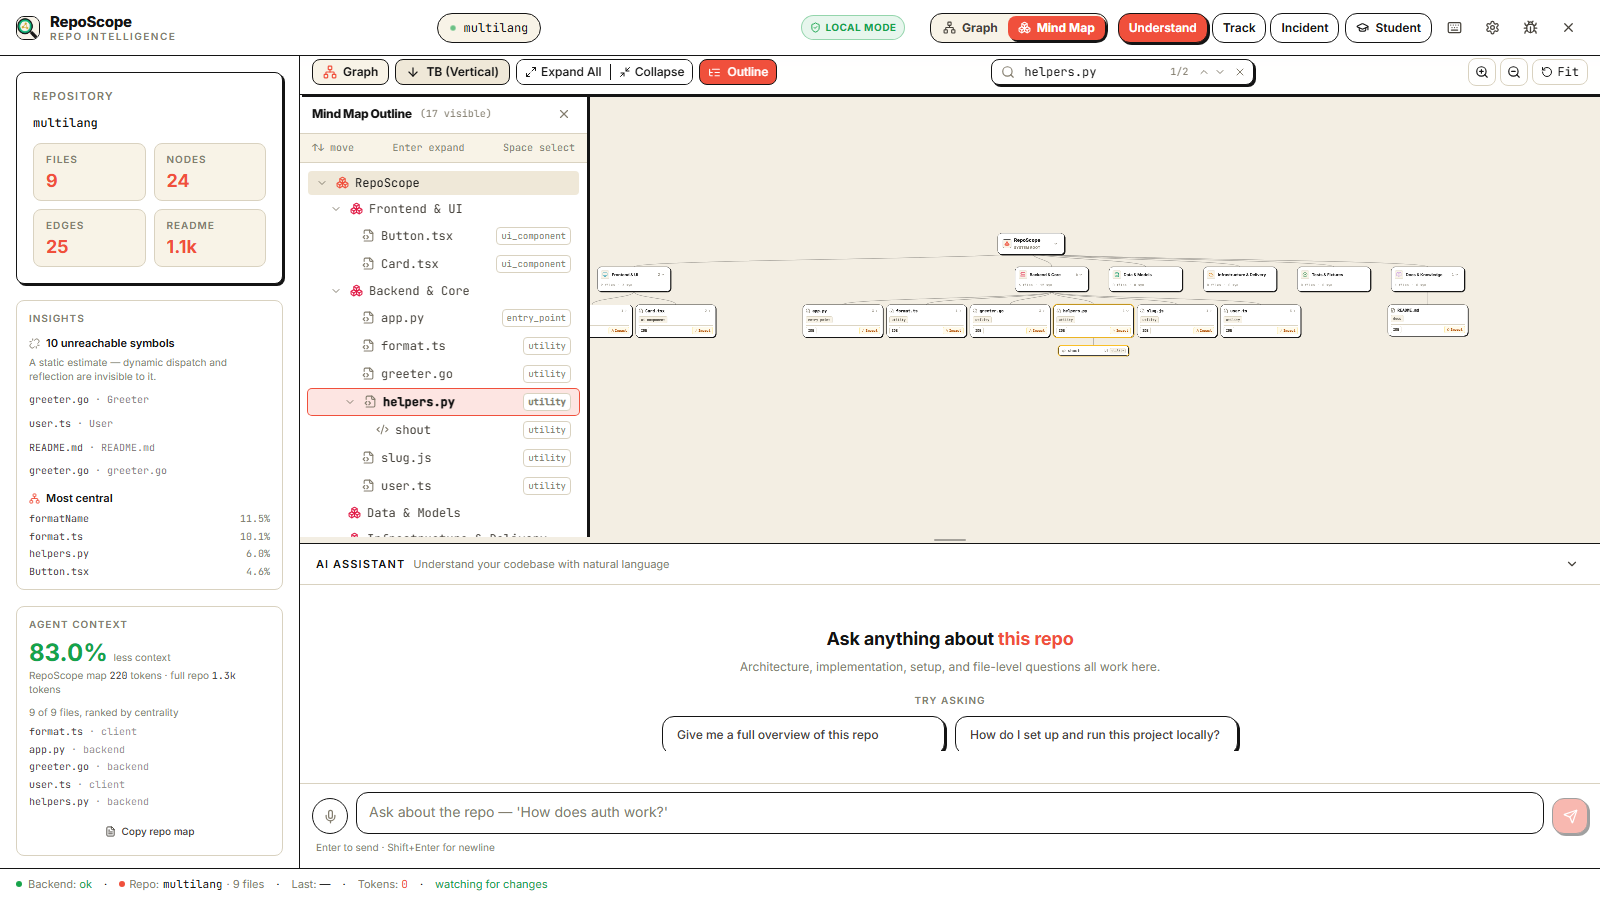
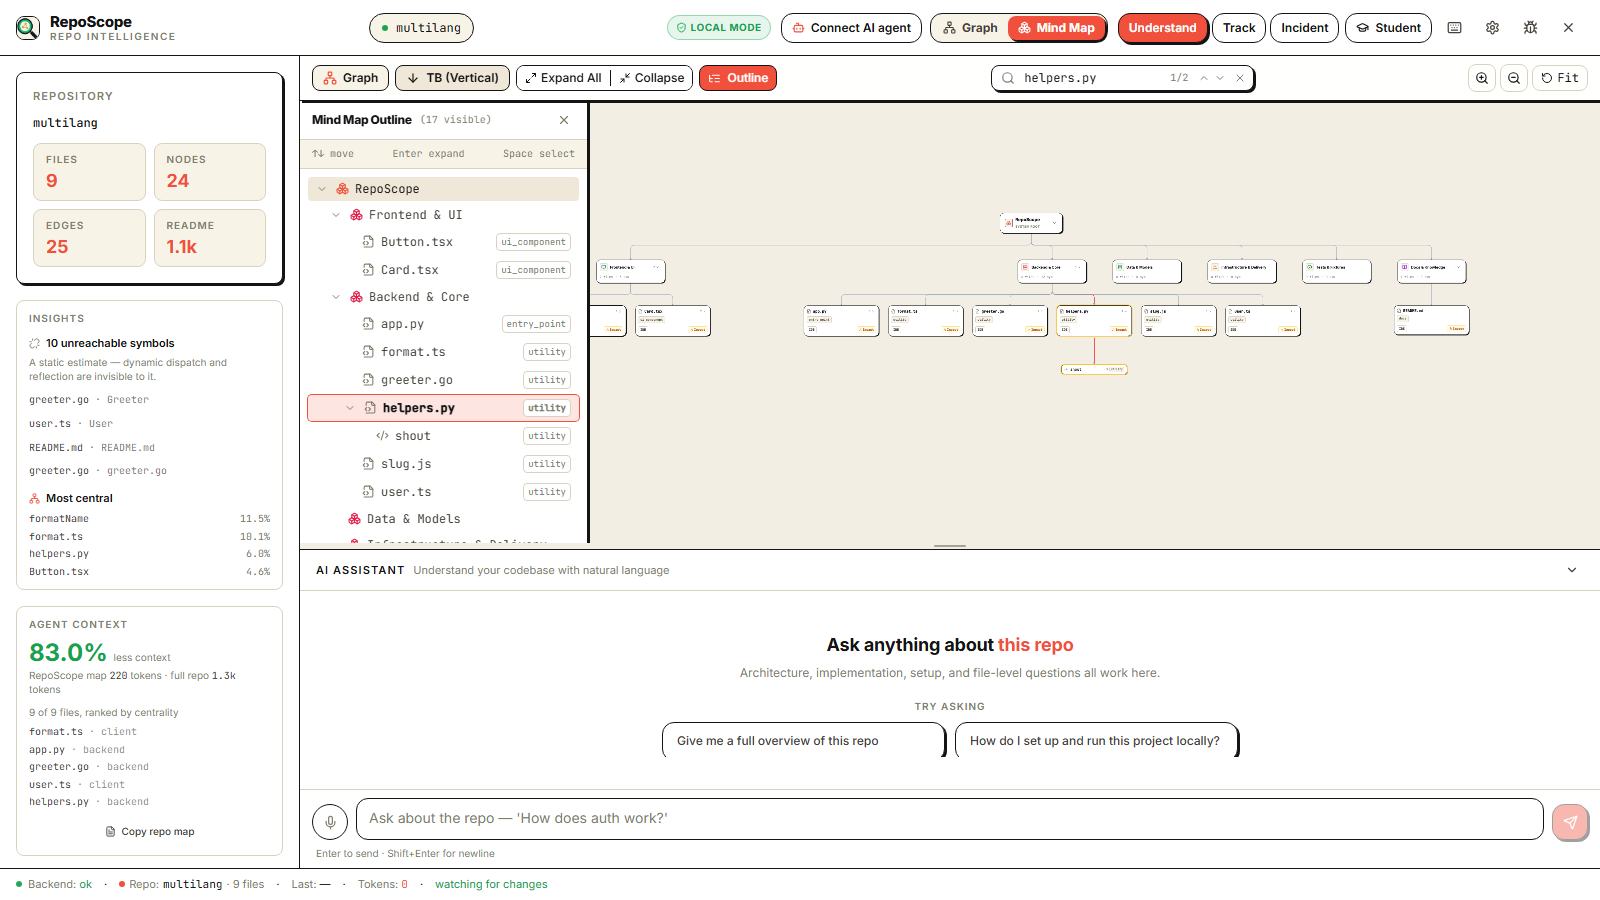
fix(ui): polish citation contrast, mindmap layout and zoom, and graph directory grouping

diff --git a/frontend/src/lib/mindmapLayout.ts b/frontend/src/lib/mindmapLayout.ts
@@ -1,7 +1,7 @@
 /**
  * mindmapLayout.ts
  * Pure tidy-tree layout computation using d3-hierarchy.
- * Computes exact (x, y) coordinates for nodes and smooth cubic bezier paths for connectors.
+ * Computes exact (x, y) coordinates for nodes and smooth rounded step paths for connectors.
  * Supports Top-to-Bottom (TB, default) and Left-to-Right (LR).
  */
 
@@ -14,20 +14,51 @@ import type {
   MindmapOrientation,
 } from "./mindmapTypes";
 
-function getNodeDimensions(node: MindmapNode): { width: number; height: number } {
+export function getNodeDimensions(node: MindmapNode): { width: number; height: number } {
   switch (node.kind) {
     case "root":
       return { width: 200, height: 56 };
     case "pillar":
-      return { width: 220, height: 74 };
+      return { width: 220, height: 76 };
     case "folder":
       return { width: 200, height: 48 };
     case "file":
-      return { width: 240, height: 68 };
+      // File card contains header, role badge, and action buttons row (IDE + Impact)
+      return { width: 240, height: 104 };
     case "symbol":
-      return { width: 210, height: 42 };
+      return { width: 210, height: 44 };
     default:
       return { width: 200, height: 52 };
+  }
+}
+
+/**
+ * Generates a clean orthogonal step path with rounded corners (like React Flow / GraphView).
+ */
+export function generateSmoothStepPath(
+  sx: number,
+  sy: number,
+  tx: number,
+  ty: number,
+  orientation: MindmapOrientation = "LR",
+  radius = 12,
+): string {
+  if (orientation === "TB") {
+    const midY = Math.round((sy + ty) / 2);
+    if (Math.abs(sx - tx) < 4) {
+      return `M ${sx} ${sy} L ${tx} ${ty}`;
+    }
+    const r = Math.min(radius, Math.abs(midY - sy), Math.abs(tx - sx) / 2);
+    const dirX = tx > sx ? 1 : -1;
+    return `M ${sx} ${sy} L ${sx} ${midY - r} Q ${sx} ${midY} ${sx + dirX * r} ${midY} L ${tx - dirX * r} ${midY} Q ${tx} ${midY} ${tx} ${midY + r} L ${tx} ${ty}`;
+  } else {
+    const midX = Math.round((sx + tx) / 2);
+    if (Math.abs(sy - ty) < 4) {
+      return `M ${sx} ${sy} L ${tx} ${ty}`;
+    }
+    const r = Math.min(radius, Math.abs(midX - sx), Math.abs(ty - sy) / 2);
+    const dirY = ty > sy ? 1 : -1;
+    return `M ${sx} ${sy} L ${midX - r} ${sy} Q ${midX} ${sy} ${midX} ${sy + dirY * r} L ${midX} ${ty - dirY * r} Q ${midX} ${ty} ${midX + r} ${ty} L ${tx} ${ty}`;
   }
 }
 
@@ -53,11 +84,13 @@ export function computeMindmapLayout(
 
   const isTB = orientation === "TB";
 
-  // Spacing configuration
-  // TB: dx is sibling gap (horizontal), dy is depth gap (vertical)
-  // LR: dx is sibling gap (vertical), dy is depth gap (horizontal)
-  const siblingGap = isTB ? 250 : 72;
-  const depthGap = isTB ? 110 : 270;
+  // Spacing configuration:
+  // In TB mode: dx is horizontal sibling gap (270px for 240px cards -> 30px gap)
+  //             dy is vertical depth gap (160px)
+  // In LR mode: dx is vertical sibling gap (132px for 104px cards -> 28px gap: ZERO OVERLAP!)
+  //             dy is horizontal depth gap (320px for clean spacing)
+  const siblingGap = isTB ? 270 : 132;
+  const depthGap = isTB ? 160 : 320;
 
   const treeLayout = tree<MindmapNode>().nodeSize([siblingGap, depthGap]);
   treeLayout(rootHierarchy);
@@ -72,8 +105,19 @@ export function computeMindmapLayout(
     // Map d.x and d.y depending on orientation
     const rawX = d.x ?? 0;
     const rawY = d.y ?? 0;
-    const posX = isTB ? rawX : rawY;
-    const posY = isTB ? rawY : rawX;
+
+    let posX: number;
+    let posY: number;
+
+    if (isTB) {
+      // In TB mode: align row tops cleanly
+      posX = rawX;
+      posY = rawY;
+    } else {
+      // In LR mode: align column lefts cleanly so cards at each depth line up
+      posX = rawY;
+      posY = rawX;
+    }
 
     const layoutNode: LayoutNode = {
       id: d.data.id,
@@ -149,31 +193,28 @@ export function computeMindmapLayout(
   const totalWidth = Math.ceil(maxRight - minLeft + margin * 2);
   const totalHeight = Math.ceil(maxBottom - minTop + margin * 2);
 
-  // Generate connector links with smooth cubic beziers
+  // Generate connector links with clean rounded step curves
   const links: LayoutLink[] = [];
 
   for (const child of rawNodes) {
     if (!child.parent) continue;
     const parent = child.parent;
 
-    let sx = parent.x;
-    let sy = parent.y;
-    let tx = child.x;
-    let ty = child.y;
     let dPath = "";
-
     if (isTB) {
       // Connect parent bottom-center to child top-center
-      sy = parent.y + parent.height / 2;
-      ty = child.y - child.height / 2;
-      const midY = (sy + ty) / 2;
-      dPath = `M ${sx} ${sy} C ${sx} ${midY}, ${tx} ${midY}, ${tx} ${ty}`;
+      const sx = parent.x;
+      const sy = Math.round(parent.y + parent.height / 2);
+      const tx = child.x;
+      const ty = Math.round(child.y - child.height / 2);
+      dPath = generateSmoothStepPath(sx, sy, tx, ty, "TB");
     } else {
       // Connect parent right-center to child left-center
-      sx = parent.x + parent.width / 2;
-      tx = child.x - child.width / 2;
-      const midX = (sx + tx) / 2;
-      dPath = `M ${sx} ${sy} C ${midX} ${sy}, ${midX} ${ty}, ${tx} ${ty}`;
+      const sx = Math.round(parent.x + parent.width / 2);
+      const sy = parent.y;
+      const tx = Math.round(child.x - child.width / 2);
+      const ty = child.y;
+      dPath = generateSmoothStepPath(sx, sy, tx, ty, "LR");
     }
 
     links.push({

diff --git a/frontend/src/components/MindMapView.tsx b/frontend/src/components/MindMapView.tsx
@@ -239,7 +239,7 @@ export default function MindMapView({
 
     const pad = 64;
     const fitScale = Math.min(
-      1.1,
+      1.05,
       Math.max(0.25, Math.min((cw - pad) / layout.width, (ch - pad) / layout.height)),
     );
 
@@ -250,20 +250,22 @@ export default function MindMapView({
     setScale(fitScale);
   }, [layout.width, layout.height]);
 
-  // Fit view on first layout generation or orientation change
+  // Fit view on first layout generation only
   const initialFitDoneRef = useRef(false);
   useEffect(() => {
-    if (layout.nodes.length > 0) {
-      if (!initialFitDoneRef.current) {
-        fitView();
-        initialFitDoneRef.current = true;
-      }
+    if (layout.nodes.length > 0 && !initialFitDoneRef.current) {
+      fitView();
+      initialFitDoneRef.current = true;
     }
   }, [layout.nodes.length, fitView]);
 
-  // Re-fit when orientation changes
+  // Re-fit ONLY when orientation explicitly changes
+  const prevOrientationRef = useRef(orientation);
   useEffect(() => {
-    fitView();
+    if (prevOrientationRef.current !== orientation) {
+      prevOrientationRef.current = orientation;
+      fitView();
+    }
   }, [orientation, fitView]);
 
   // ── Search & auto-expand ancestors ──
@@ -304,7 +306,7 @@ export default function MindMapView({
     setCurrentMatchIndex(0);
   }, [searchResults, storageKey]);
 
-  // Center node in canvas
+  // Center node in canvas without changing user's zoom level
   const centerNode = useCallback(
     (nodeId: string) => {
       const node = layout.nodes.find((n) => n.id === nodeId);
@@ -380,9 +382,20 @@ export default function MindMapView({
     );
   }, [searchResults.matches.length]);
 
+  // Anchor node position ref so expanding/collapsing keeps the clicked node in place
+  const anchorNodeRef = useRef<{ id: string; screenX: number; screenY: number } | null>(null);
+
   // ── Expand / Collapse Handler ──
   const handleToggleExpand = useCallback(
     (id: string) => {
+      const node = layout.nodes.find((n) => n.id === id);
+      if (node && canvasContainerRef.current) {
+        anchorNodeRef.current = {
+          id,
+          screenX: pan.x + node.x * scale,
+          screenY: pan.y + node.y * scale,
+        };
+      }
       const next = new Set(expandedIds);
       if (next.has(id)) {
         next.delete(id);
@@ -391,8 +404,22 @@ export default function MindMapView({
       }
       updateExpanded(next);
     },
-    [expandedIds, updateExpanded],
+    [expandedIds, layout.nodes, pan.x, pan.y, scale, updateExpanded],
   );
+
+  // Preserve screen position of expanded/collapsed node so the canvas never jumps wildly
+  useEffect(() => {
+    if (!anchorNodeRef.current) return;
+    const anchor = anchorNodeRef.current;
+    anchorNodeRef.current = null;
+
+    const node = layout.nodes.find((n) => n.id === anchor.id);
+    if (!node) return;
+
+    const targetPanX = Math.round(anchor.screenX - node.x * scale);
+    const targetPanY = Math.round(anchor.screenY - node.y * scale);
+    setPan({ x: targetPanX, y: targetPanY });
+  }, [layout.nodes, scale]);
 
   const handleExpandAll = useCallback(() => {
     if (!payload?.root) return;
@@ -714,16 +741,39 @@ export default function MindMapView({
               height={layout.height}
               style={{ overflow: "visible" }}
             >
-              {layout.links.map((link) => (
-                <path
-                  key={link.id}
-                  d={link.d}
-                  fill="none"
-                  stroke="#141414"
-                  strokeWidth="1.5"
-                  strokeOpacity="0.35"
-                />
-              ))}
+              <defs>
+                <marker
+                  id="mindmap-arrow"
+                  viewBox="0 0 10 10"
+                  refX="6"
+                  refY="5"
+                  markerWidth="6"
+                  markerHeight="6"
+                  orient="auto-start-reverse"
+                >
+                  <path d="M 0 2 L 8 5 L 0 8 z" fill="#94A3B8" />
+                </marker>
+              </defs>
+              {layout.links.map((link) => {
+                const isSelectedBranch =
+                  selectedNodeId &&
+                  (link.target.id === selectedNodeId ||
+                    link.source.id === selectedNodeId);
+                return (
+                  <path
+                    key={link.id}
+                    d={link.d}
+                    fill="none"
+                    stroke={isSelectedBranch ? "#F0503C" : "#94A3B8"}
+                    strokeWidth={isSelectedBranch ? "2" : "1.5"}
+                    strokeOpacity={isSelectedBranch ? "1" : "0.75"}
+                    strokeLinecap="round"
+                    strokeLinejoin="round"
+                    markerEnd="url(#mindmap-arrow)"
+                    className="transition-colors duration-150"
+                  />
+                );
+              })}
             </svg>
 
             {/* Render Layout Nodes */}

diff --git a/frontend/src/components/CitationPill.tsx b/frontend/src/components/CitationPill.tsx
@@ -50,26 +50,26 @@ export default function CitationPill({ citation, onCitationClick }: Props) {
         data-verified={isVerified}
         title={isVerified ? `Verified: ${citation.reason}` : `Unverified: ${citation.reason}`}
         className={`
-          inline-flex items-center gap-1.5 px-2 py-0.5 rounded text-xs font-mono transition-all duration-150 cursor-pointer
+          inline-flex items-center gap-1.5 px-2 py-0.5 rounded text-xs font-mono transition-all duration-150 cursor-pointer shadow-sm
           ${
             isVerified
-              ? "bg-emerald-950/40 text-emerald-300 border border-emerald-500/30 hover:bg-emerald-900/50 hover:border-emerald-400"
-              : "bg-amber-950/20 text-amber-300/80 border border-dashed border-amber-600/40 hover:bg-amber-900/30 hover:border-amber-500"
+              ? "bg-emerald-50 text-emerald-900 border border-emerald-500/60 hover:bg-emerald-100 hover:border-emerald-600"
+              : "bg-amber-50 text-amber-950 border border-dashed border-amber-500 hover:bg-amber-100 hover:border-amber-600"
           }
         `}
       >
         {isVerified ? (
           citation.reason === "snapped" ? (
-            <CornerDownRight size={12} className="text-emerald-400 shrink-0" aria-hidden="true" />
+            <CornerDownRight size={12} className="text-emerald-700 shrink-0" aria-hidden="true" />
           ) : (
-            <CheckCircle2 size={12} className="text-emerald-400 shrink-0" aria-hidden="true" />
+            <CheckCircle2 size={12} className="text-emerald-700 shrink-0" aria-hidden="true" />
           )
         ) : (
-          <AlertCircle size={12} className="text-amber-400 shrink-0" aria-hidden="true" />
+          <AlertCircle size={12} className="text-amber-700 shrink-0" aria-hidden="true" />
         )}
-        <span className="truncate max-w-[280px]">{displayText}</span>
+        <span className="truncate max-w-[280px] font-medium">{displayText}</span>
         {!isVerified && (
-          <span className="text-[10px] text-amber-400/70 font-sans uppercase tracking-wider ml-0.5">
+          <span className="text-[10px] bg-amber-200/80 text-amber-900 font-sans font-bold uppercase tracking-wider px-1 py-0.5 rounded ml-0.5">
             unverified
           </span>
         )}
@@ -96,8 +96,8 @@ export default function CitationPill({ citation, onCitationClick }: Props) {
             <span
               className={`text-[10px] px-1.5 py-0.5 rounded uppercase font-semibold shrink-0 ${
                 isVerified
-                  ? "bg-emerald-500/20 text-emerald-300"
-                  : "bg-amber-500/20 text-amber-300"
+                  ? "bg-emerald-100 text-emerald-800 border border-emerald-300"
+                  : "bg-amber-100 text-amber-900 border border-amber-300"
               }`}
             >
               {isVerified ? `${Math.round(citation.confidence * 100)}% verified` : "unverified"}
@@ -108,7 +108,7 @@ export default function CitationPill({ citation, onCitationClick }: Props) {
             {citation.symbol && (
               <span className="block">
                 <span className="text-text-muted">Symbol: </span>
-                <span className="font-mono text-accent-emerald">{citation.symbol}</span>
+                <span className="font-mono text-accent-emerald font-semibold">{citation.symbol}</span>
               </span>
             )}
             {citation.node_id && (
@@ -124,7 +124,7 @@ export default function CitationPill({ citation, onCitationClick }: Props) {
           </span>
 
           {citation.preview ? (
-            <span className="block p-2 rounded bg-bg-base/80 border border-border-subtle text-[11px] font-mono text-text-muted overflow-x-auto max-h-36 whitespace-pre">
+            <span className="block p-2 rounded bg-bg-base/80 border border-border-subtle text-[11px] font-mono text-text-primary overflow-x-auto max-h-36 whitespace-pre">
               {citation.preview}
             </span>
           ) : (

diff --git a/frontend/src/components/GraphView.tsx b/frontend/src/components/GraphView.tsx
@@ -273,6 +273,11 @@ function buildModuleGroups(paths: string[]): Map<string, string> {
     for (const child of node.children.values()) collect(child, groupPath);
   };
   const assign = (node: DirectoryTree): void => {
+    if (node === root) {
+      for (const file of node.files) groups.set(file, "");
+      for (const child of node.children.values()) assign(child);
+      return;
+    }
     if (node.total <= MAX_MODULE_FILES || node.children.size === 0) {
       collect(node, node.path);
       return;

diff --git a/frontend/src/components/mindmap/MindMapNodeCard.tsx b/frontend/src/components/mindmap/MindMapNodeCard.tsx
@@ -120,6 +120,9 @@ export const MindMapNodeCard: React.FC<MindMapNodeCardProps> = memo(
     const handleCardClick = (e: React.MouseEvent) => {
       e.stopPropagation();
       onSelectNode(node);
+      if (hasChildren) {
+        onToggleExpand(node.id);
+      }
     };
 
     const handleExpandToggle = (e: React.MouseEvent) => {

diff --git a/CHANGELOG.md b/CHANGELOG.md
@@ -80,6 +80,9 @@ on a separate marketplace.
 
 ### Fixed
 
+- **UI polish for citations, mind map, and graph directory grouping.**
+  Enhanced citation pill contrast in dark and Editorial cream themes. Fixed mind map layout spacing, card dimensions, smoothstep connector lines, and screen anchoring on expand/collapse so opening elements never zooms out or jumps. Fixed graph directory grouping to avoid collapsing repositories into a single root module.
+
 - **CI is hermetic and green on every gate.** Endpoint tests resolve a
   synthetic provider instead of depending on a developer `.env`; the unit job
   fetches full history so co-change tests measure real commits; the MCP stdio
